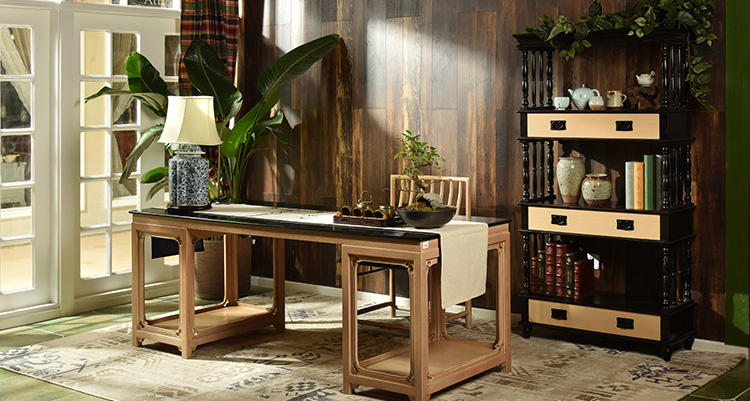
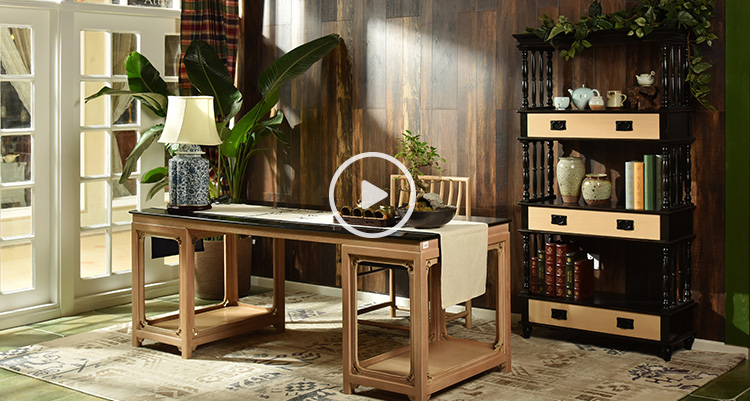
视频

Changed region(s): [[0.4293, 0.3591, 0.552, 0.5686], [0.46, 0.5686, 0.5213, 0.5985]]

diff --git a/topic-baojia-difang.html b/topic-baojia-difang.html
@@ -24,11 +24,12 @@
 <div class="view">
     <div class="page">
         <div class="video-box">
-            <video poster="images/video-img.jpg" width="100%" height="200" controls="" playsinline>
+            <video id="video-media" width="100%" height="200" controls="" playsinline>
                 <source src="http://www.w3school.com.cn/i/movie.mp4" type="video/mp4">
                 <source src="http://www.w3school.com.cn/i/movie.ogg" type="video/ogg">
                 您的浏览器不支持 HTML5 video 标签。
             </video>
+            <div class="video-drop"></div>
         </div>
         <div class="img-box"><img src="images/img-1.jpg" alt=""></div>
         <div class="content-box">
@@ -234,7 +235,16 @@
         });
         $('#closed-city').click(function () {
             $('#city-model').stop(true, true).fadeOut(100);
+
+            selectCity();
         });
+
+        // 城市选择
+        function selectCity() {
+            var str = $('.city-list .active a span').text();
+            $('#select-city input').val(str);
+        }
+
 
         $('.hx-list a').click(function () {
             $(this).addClass('active').siblings().removeClass('active');
@@ -282,6 +292,40 @@
         }, 200);
 
 
+        var ran = 100;
+        var range = 50000;
+        var myNumber;
+
+        /*将产生随机数的方法进行封装*/
+        function sjs(range) {
+            ran = Math.random() * range;//[0,range)的随机数
+            var result = parseInt(ran);//将数字转换成整数
+            return result;
+        }
+
+        /*对显示随机数的方法进行封装*/
+        function showRandomNum() {
+            var figure = sjs(range);
+            $("#hd").text(figure);
+        }
+
+        myNumber = setInterval(showRandomNum, 100);//多长时间运行一次
+
+
+        // 视频播放
+        var myVideo = document.getElementById("video-media");
+        var $videoDrop = $('.video-drop');
+        $videoDrop.click(function () {
+            myVideo.play();
+        });
+        myVideo.addEventListener('play',function(){
+            console.log('bofangzhong');
+            $videoDrop.hide();
+        });
+        myVideo.addEventListener('pause',function(){
+            console.log('zanting');
+            $videoDrop.show();
+        })
     })
 </script>
 </body>

diff --git a/topic-baojia.html b/topic-baojia.html
@@ -24,11 +24,12 @@
 <div class="view">
     <div class="page">
         <div class="video-box">
-            <video poster="images/video-img.jpg" width="100%" height="200" controls="" playsinline>
+            <video id="video-media" width="100%" height="200" controls="" playsinline>
                 <source src="http://www.w3school.com.cn/i/movie.mp4" type="video/mp4">
                 <source src="http://www.w3school.com.cn/i/movie.ogg" type="video/ogg">
                 您的浏览器不支持 HTML5 video 标签。
             </video>
+            <div class="video-drop"></div>
         </div>
         <div class="img-box"><img src="images/img-1.jpg" alt=""></div>
         <div class="content-box">
@@ -320,6 +321,22 @@
         }
 
         myNumber = setInterval(showRandomNum, 100);//多长时间运行一次
+
+
+        // 视频播放
+        var myVideo = document.getElementById("video-media");
+        var $videoDrop = $('.video-drop');
+        $videoDrop.click(function () {
+            myVideo.play();
+        });
+        myVideo.addEventListener('play',function(){
+            console.log('bofangzhong');
+            $videoDrop.hide();
+        });
+        myVideo.addEventListener('pause',function(){
+            console.log('zanting');
+            $videoDrop.show();
+        })
     })
 </script>
 </body>

diff --git a/css/style.css b/css/style.css
@@ -185,9 +185,22 @@ img {
     padding-bottom: .8rem; }
 
 .video-box {
+  position: relative;
   background-color: #000000; }
   .video-box video {
     display: block; }
+  .video-box .video-drop {
+    position: absolute;
+    top: 0;
+    left: 0;
+    right: 0;
+    bottom: 0;
+    z-index: 10;
+    background: url(../images/video-img.jpg) center no-repeat;
+    -webkit-background-size: cover;
+    -moz-background-size: cover;
+    -o-background-size: cover;
+    background-size: cover; }
 
 .img-box img {
   display: block; }

diff --git a/css/style.scss b/css/style.scss
@@ -66,9 +66,20 @@ img {
 }
 
 .video-box {
+  position: relative;
   background-color: #000000;
   video {
     display: block;
+  }
+  .video-drop{
+    position: absolute;
+    top: 0;
+    left: 0;
+    right: 0;
+    bottom: 0;
+    z-index: 10;
+    background: url(../images/video-img.jpg) center no-repeat;
+    @include background-size(cover);
   }
 }
 
